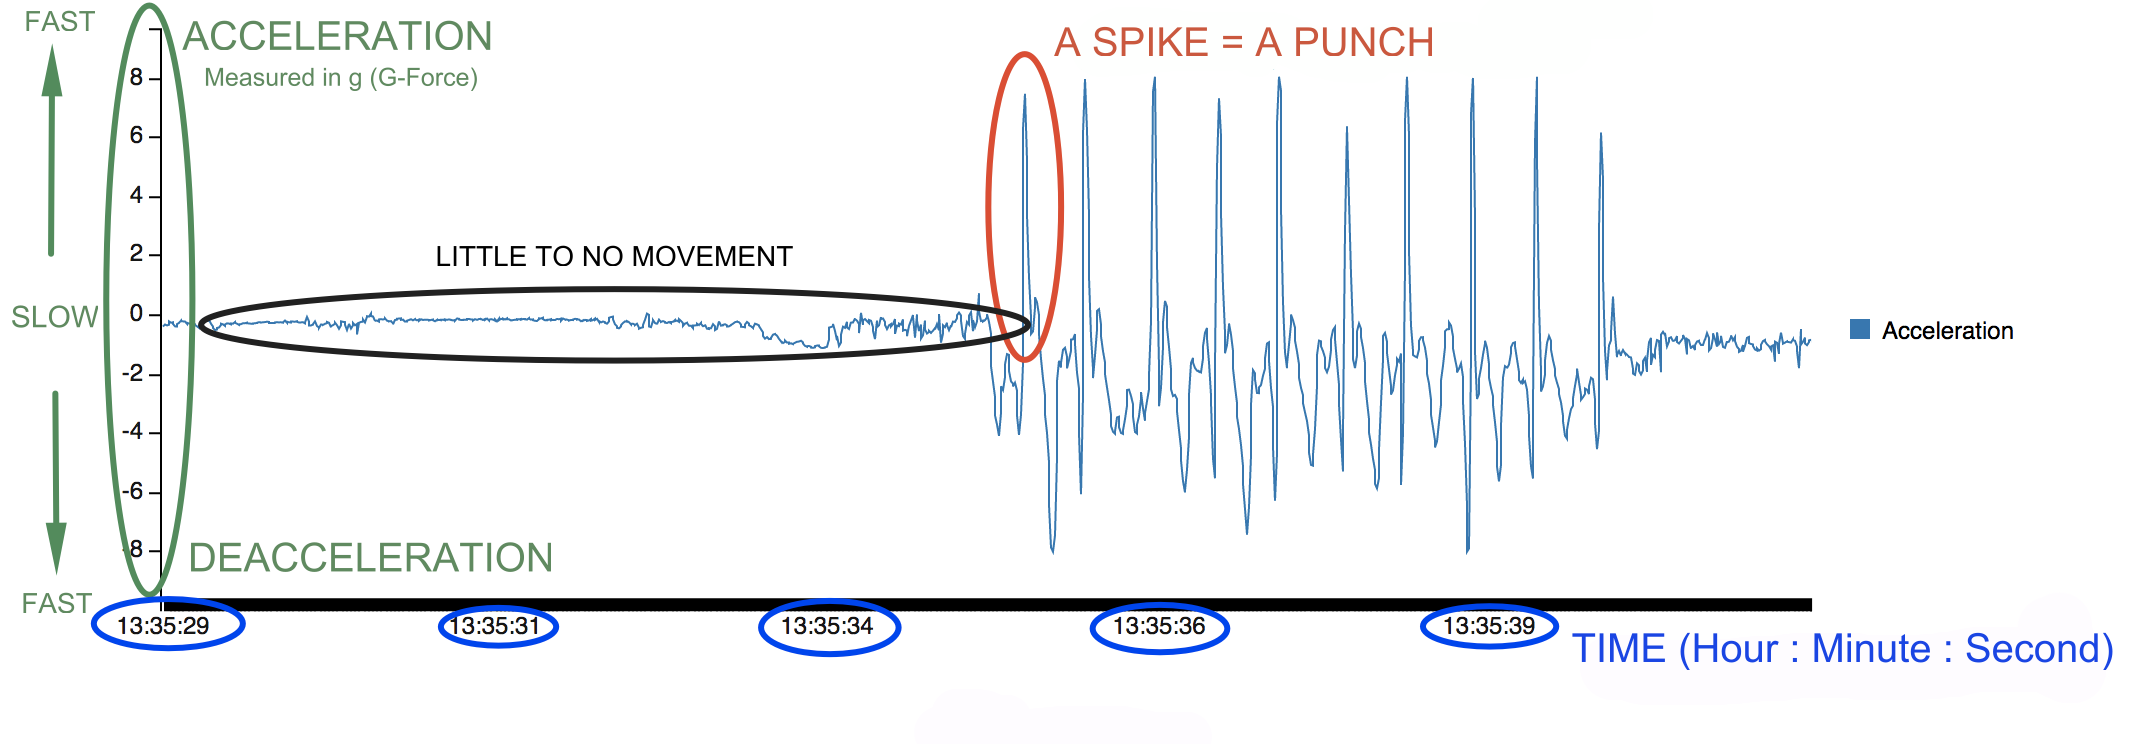
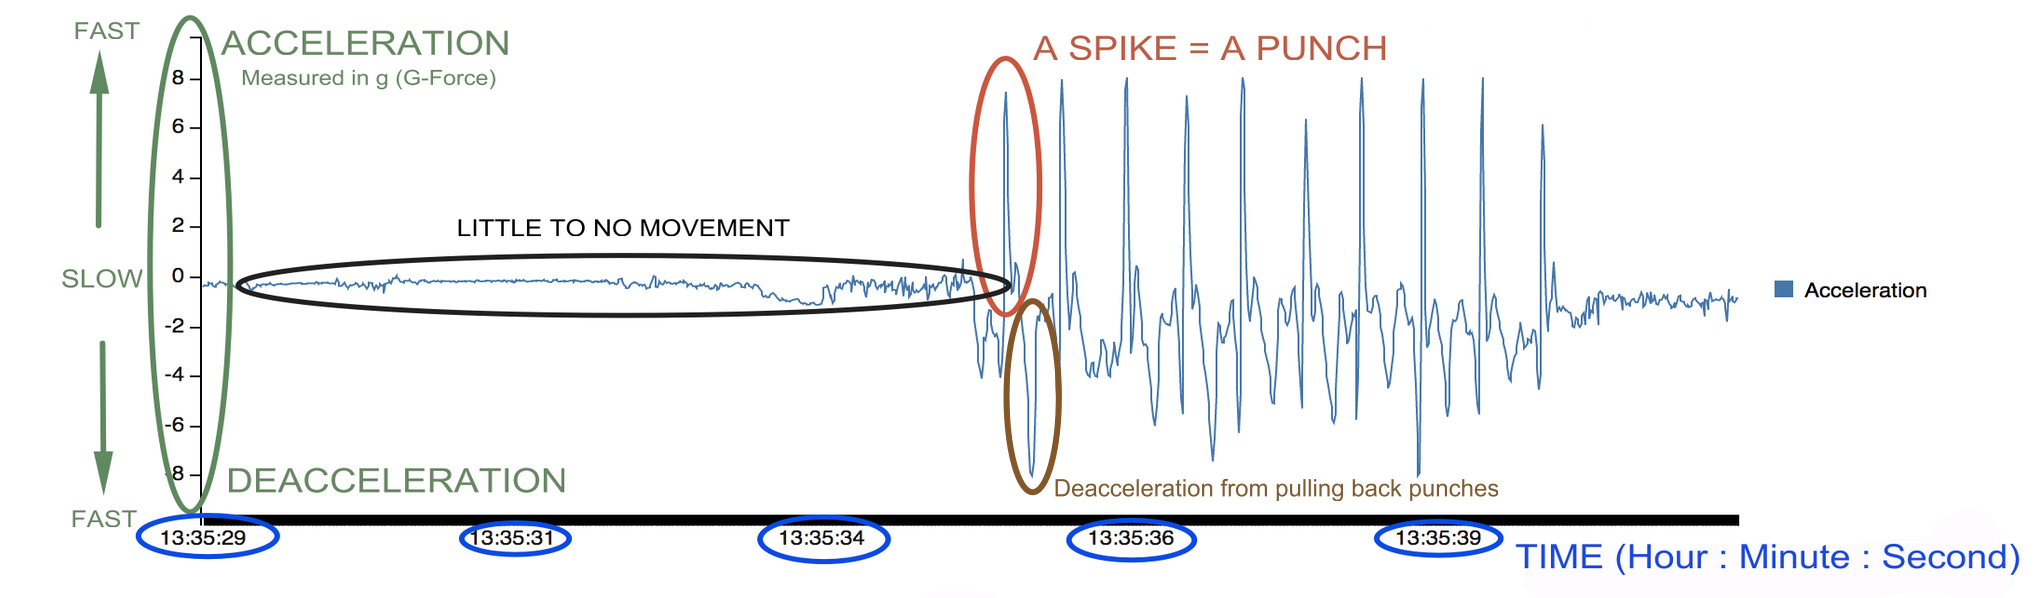
Updated Explantion graph in About page

Changed region(s): [[0.0, 0.0, 1.0, 0.9632]]

diff --git a/CODE/javascripts/create-graph.js b/CODE/javascripts/create-graph.js
@@ -44,6 +44,8 @@ function createGraph(data, chartDivName) {
 			columns: [yLabel] }, 
 		 axis: {
 			 x: {
+
+
 				//  array map to get Time from Date&Time
 				 type: 'category', categories: date.map((item) => { return item[11] + 
 					 item[12] + 
@@ -197,7 +199,6 @@ function getFirstAndLastDateTime(date) {
 			}
 
 
-
 	//Date
 		var splicedstartSessionTimestamp = startSessionTimestamp.slice(0,1);
 	    document.getElementById("DisplayDate").innerHTML = splicedstartSessionTimestamp;
@@ -212,31 +213,8 @@ function getFirstAndLastDateTime(date) {
 		lengthOfSession[1] + " Min - " +
 		lengthOfSession[2] + " Sec " ;
 
-	// var start = splitStartTime[0];
-	// var end = splitEndTime[1];
-	//  document.getElementById("diff").innerHTML = diff(start, end);
-
 	return dateTimeObj;
 }
-
-
-
-// function diff(start, end) {
-
-// 	start = start.split(":");
-// 	end = end.split(":");
-// 	var startDate = new Date(0, 0, 0, start[0], start[1], 0);
-// 	var endDate = new Date(0, 0, 0, end[0], end[1], 0);
-// 	var diff = endDate.getTime() - startDate.getTime();
-// 	var hours = Math.floor(diff / 1000 / 60 / 60);
-// 	diff -= hours * (1000 * 60 * 60);
-// 	var minutes = Math.floor(diff / 1000 / 60);
-// 	diff -= minutes * (1000 * 60);
-// 	var seconds = Math.floor(diff / 1000);
-
-// 	return (hours <= 9 ? "0" : "") + hours + ":" + (minutes <= 9 ? "0" : "") + minutes + ":" + (seconds <= 9 ? "0" : "") +  seconds;
-// } 
-
 
 
 
@@ -244,7 +222,7 @@ function getFirstAndLastDateTime(date) {
 //Call the Functions
 
 parseData(createGraph, "../data/BTT1.csv", "", findPunchesInGraph);
-parseData(createGraph, "../data/BTT2.csv", "2", findPunchesInGraph);
+//parseData(createGraph, "../data/BTT2.csv", "2", findPunchesInGraph);
 //parseData(createGraph, "../data/BTT1.csv", "", findPunchesInGraph);
 
 },{"slayer":18}],2:[function(require,module,exports){

diff --git a/CODE/not-browserified/create-graph.js b/CODE/not-browserified/create-graph.js
@@ -43,6 +43,8 @@ function createGraph(data, chartDivName) {
 			columns: [yLabel] }, 
 		 axis: {
 			 x: {
+
+
 				//  array map to get Time from Date&Time
 				 type: 'category', categories: date.map((item) => { return item[11] + 
 					 item[12] + 
@@ -196,7 +198,6 @@ function getFirstAndLastDateTime(date) {
 			}
 
 
-
 	//Date
 		var splicedstartSessionTimestamp = startSessionTimestamp.slice(0,1);
 	    document.getElementById("DisplayDate").innerHTML = splicedstartSessionTimestamp;
@@ -211,31 +212,8 @@ function getFirstAndLastDateTime(date) {
 		lengthOfSession[1] + " Min - " +
 		lengthOfSession[2] + " Sec " ;
 
-	// var start = splitStartTime[0];
-	// var end = splitEndTime[1];
-	//  document.getElementById("diff").innerHTML = diff(start, end);
-
 	return dateTimeObj;
 }
-
-
-
-// function diff(start, end) {
-
-// 	start = start.split(":");
-// 	end = end.split(":");
-// 	var startDate = new Date(0, 0, 0, start[0], start[1], 0);
-// 	var endDate = new Date(0, 0, 0, end[0], end[1], 0);
-// 	var diff = endDate.getTime() - startDate.getTime();
-// 	var hours = Math.floor(diff / 1000 / 60 / 60);
-// 	diff -= hours * (1000 * 60 * 60);
-// 	var minutes = Math.floor(diff / 1000 / 60);
-// 	diff -= minutes * (1000 * 60);
-// 	var seconds = Math.floor(diff / 1000);
-
-// 	return (hours <= 9 ? "0" : "") + hours + ":" + (minutes <= 9 ? "0" : "") + minutes + ":" + (seconds <= 9 ? "0" : "") +  seconds;
-// } 
-
 
 
 
@@ -243,5 +221,5 @@ function getFirstAndLastDateTime(date) {
 //Call the Functions
 
 parseData(createGraph, "../data/BTT1.csv", "", findPunchesInGraph);
-parseData(createGraph, "../data/BTT2.csv", "2", findPunchesInGraph);
+//parseData(createGraph, "../data/BTT2.csv", "2", findPunchesInGraph);
 //parseData(createGraph, "../data/BTT1.csv", "", findPunchesInGraph);

diff --git a/CODE/Graph.html b/CODE/Graph.html
@@ -192,14 +192,17 @@
 					Results
 				</div>
 				<br>
-						<h2> Graph 1</h2>
+						<h2> Graphs</h2>
 						<div class="container">
 							<div id="chart"></div>
 							<div id="spikes"></div>
 							<br>
-							<h2>Graph 2</h2>
+							<h2></h2>
 							<div id="chart2"></div>
 							<div id="spikes2"></div>
+							<br>
+							<div id="chart3"></div>
+							<div id="spikes3"></div>
 						</div>
 
 				<div class="card-footer text-muted">
